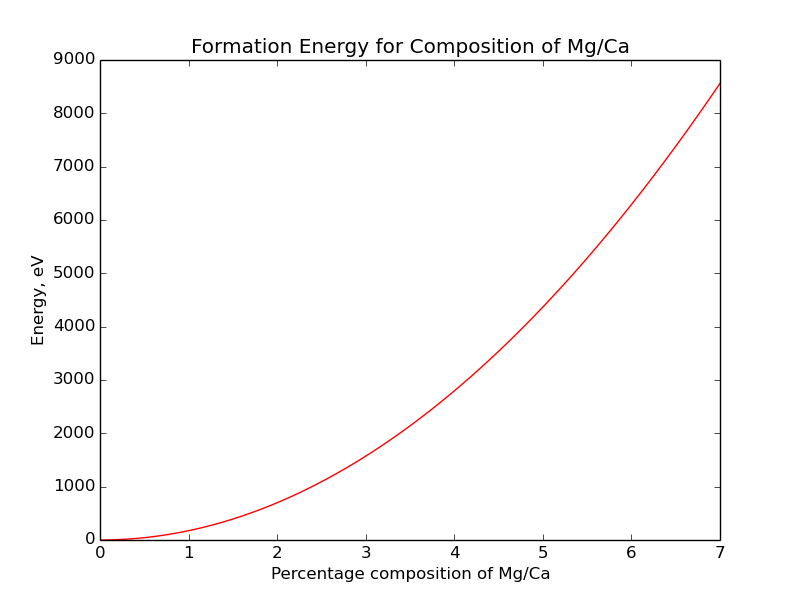
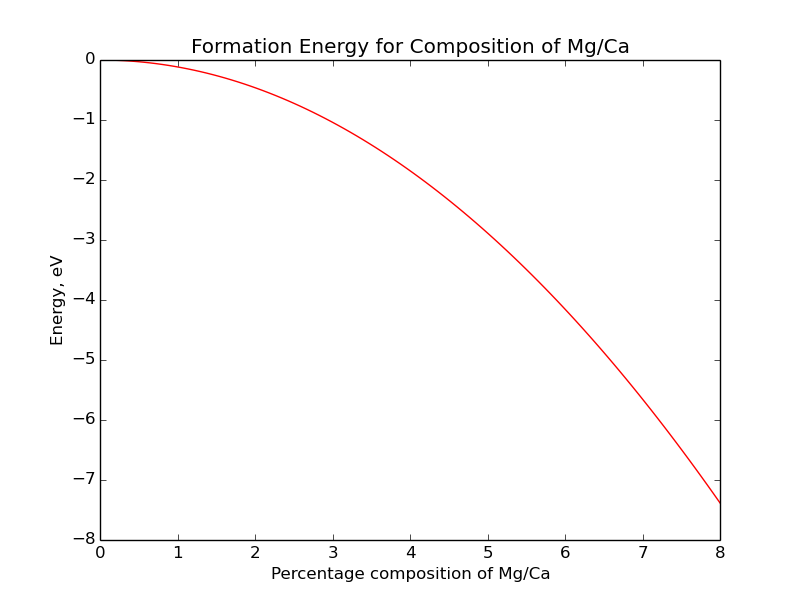
plot.sh to run formation energy calc. I think the x axis is wrong on the energy dat file

diff --git a/plotting.py b/plotting.py
@@ -35,6 +35,7 @@ plt.clf()
 
 #plot fixed energy of formation
 plt.plot(xp, fixy(xp,fit(xp), p), 'r-')
+#plt.plot(xp, p[0]*xp**2, 'r-')
 plt.ylabel('Energy, eV')
 plt.xlabel('Percentage composition of Mg/Ca')
 plt.title('Formation Energy for Composition of Mg/Ca')
